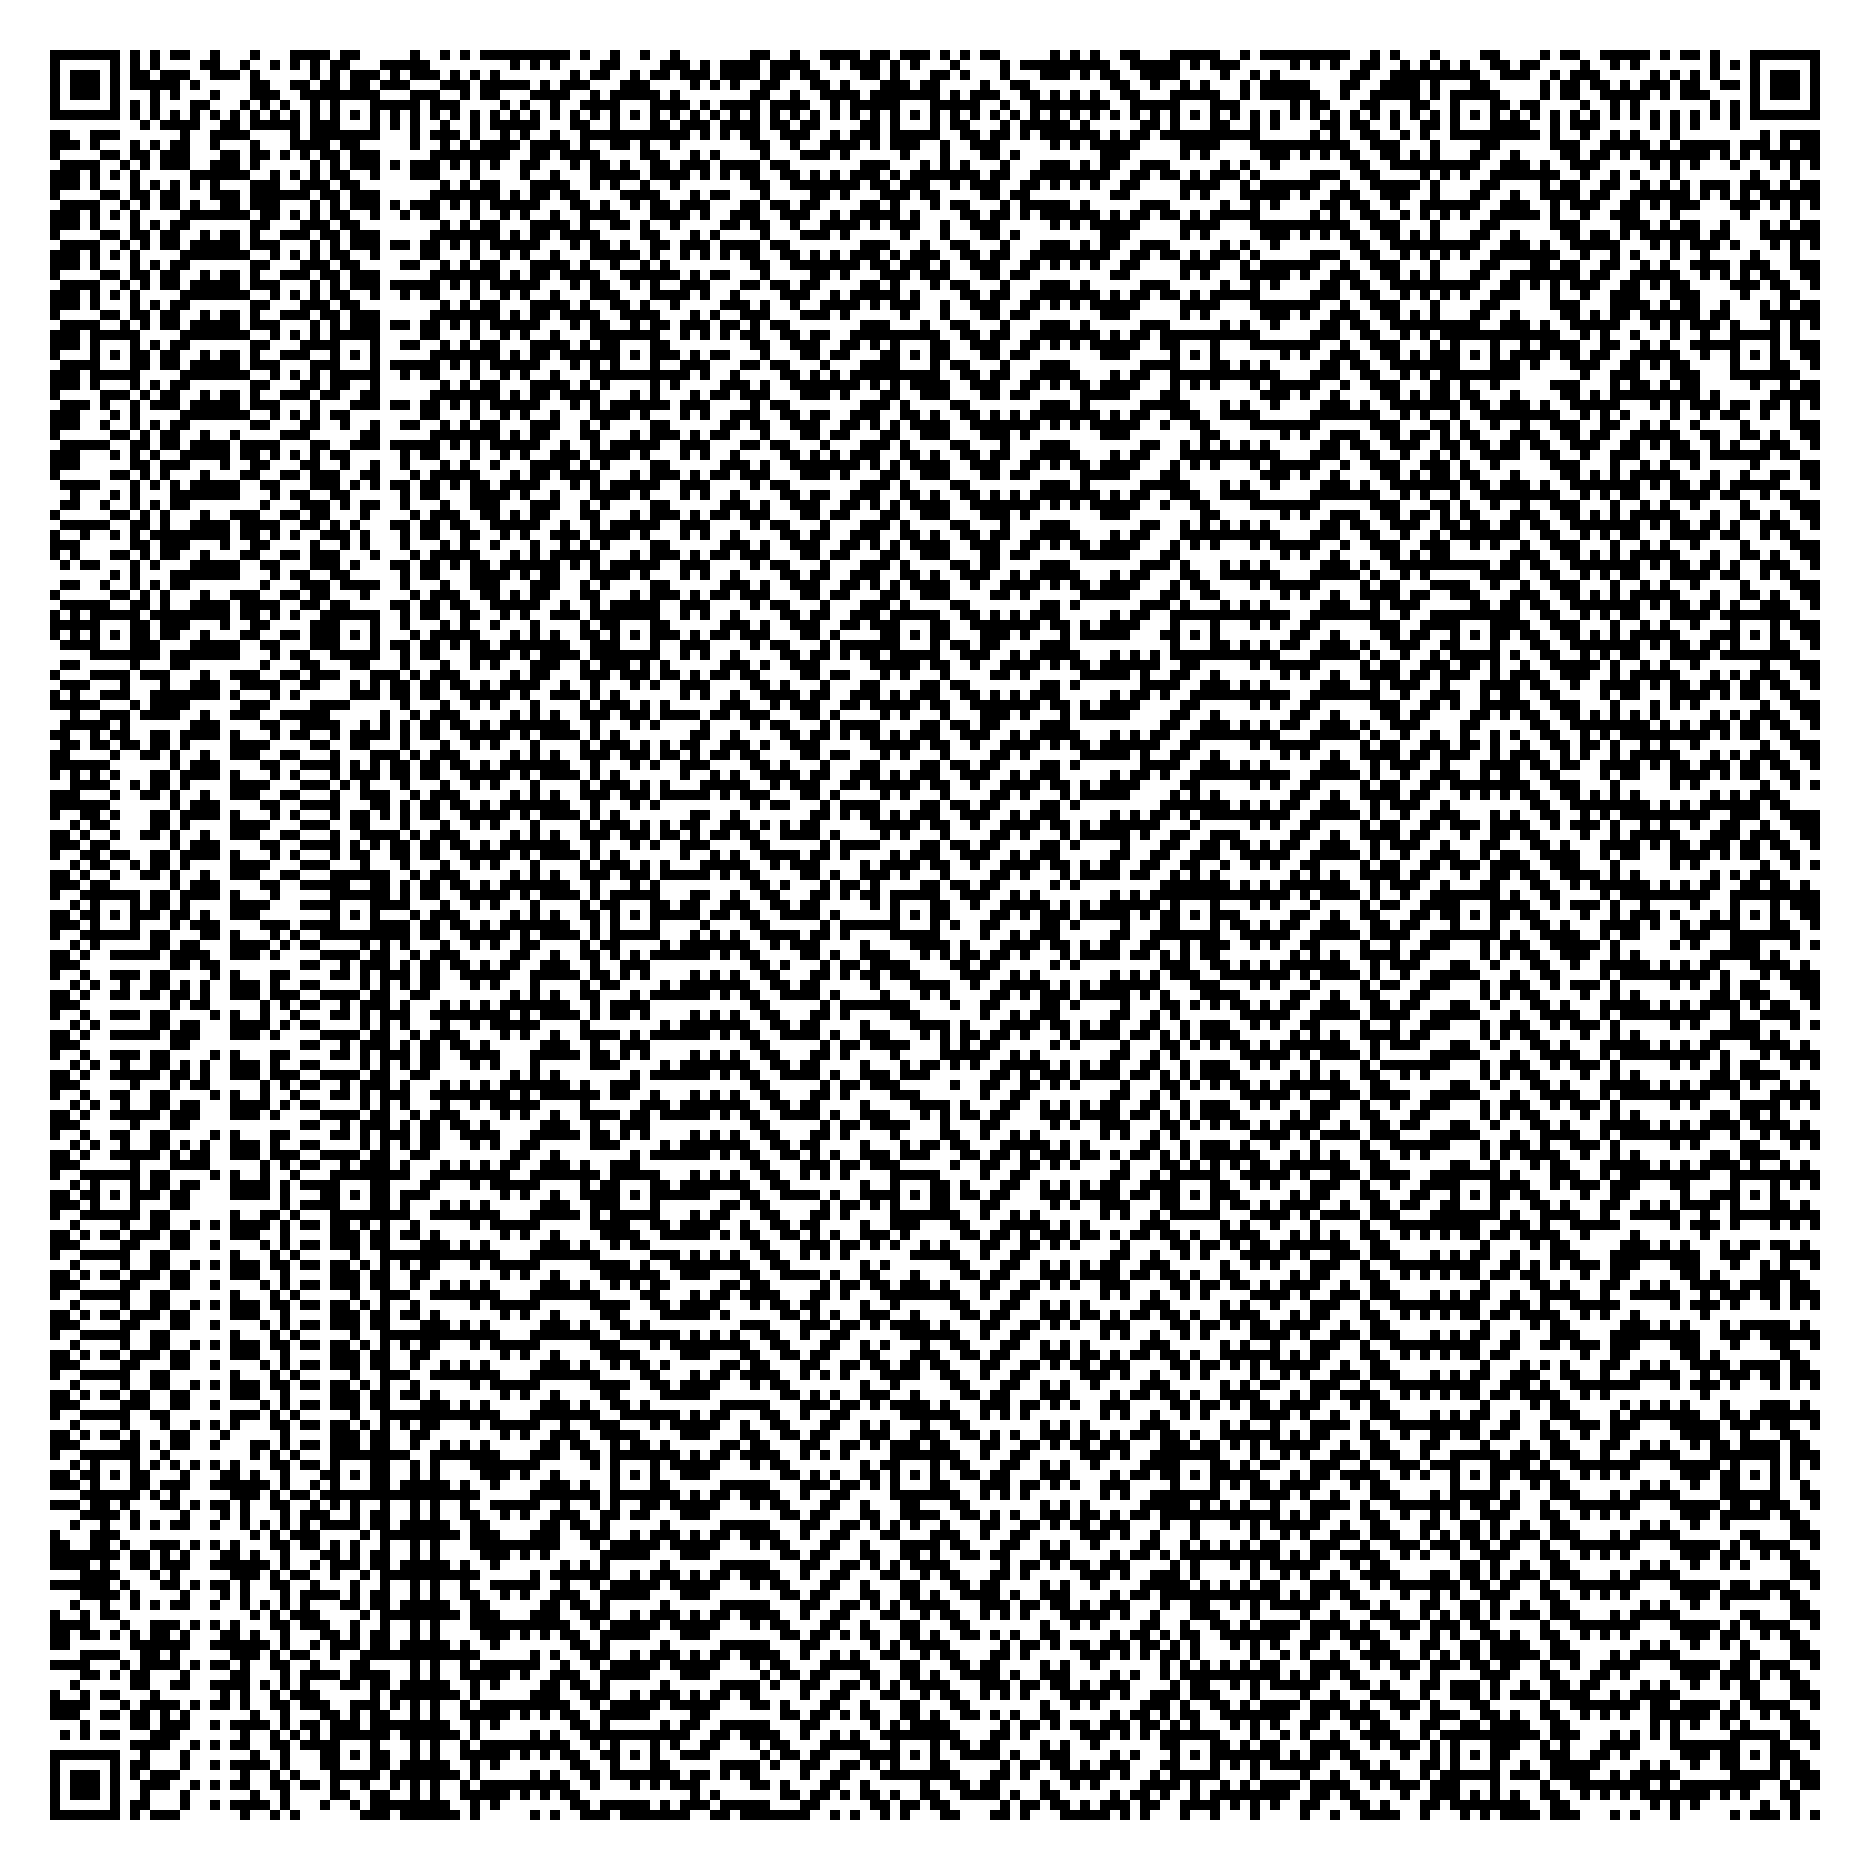
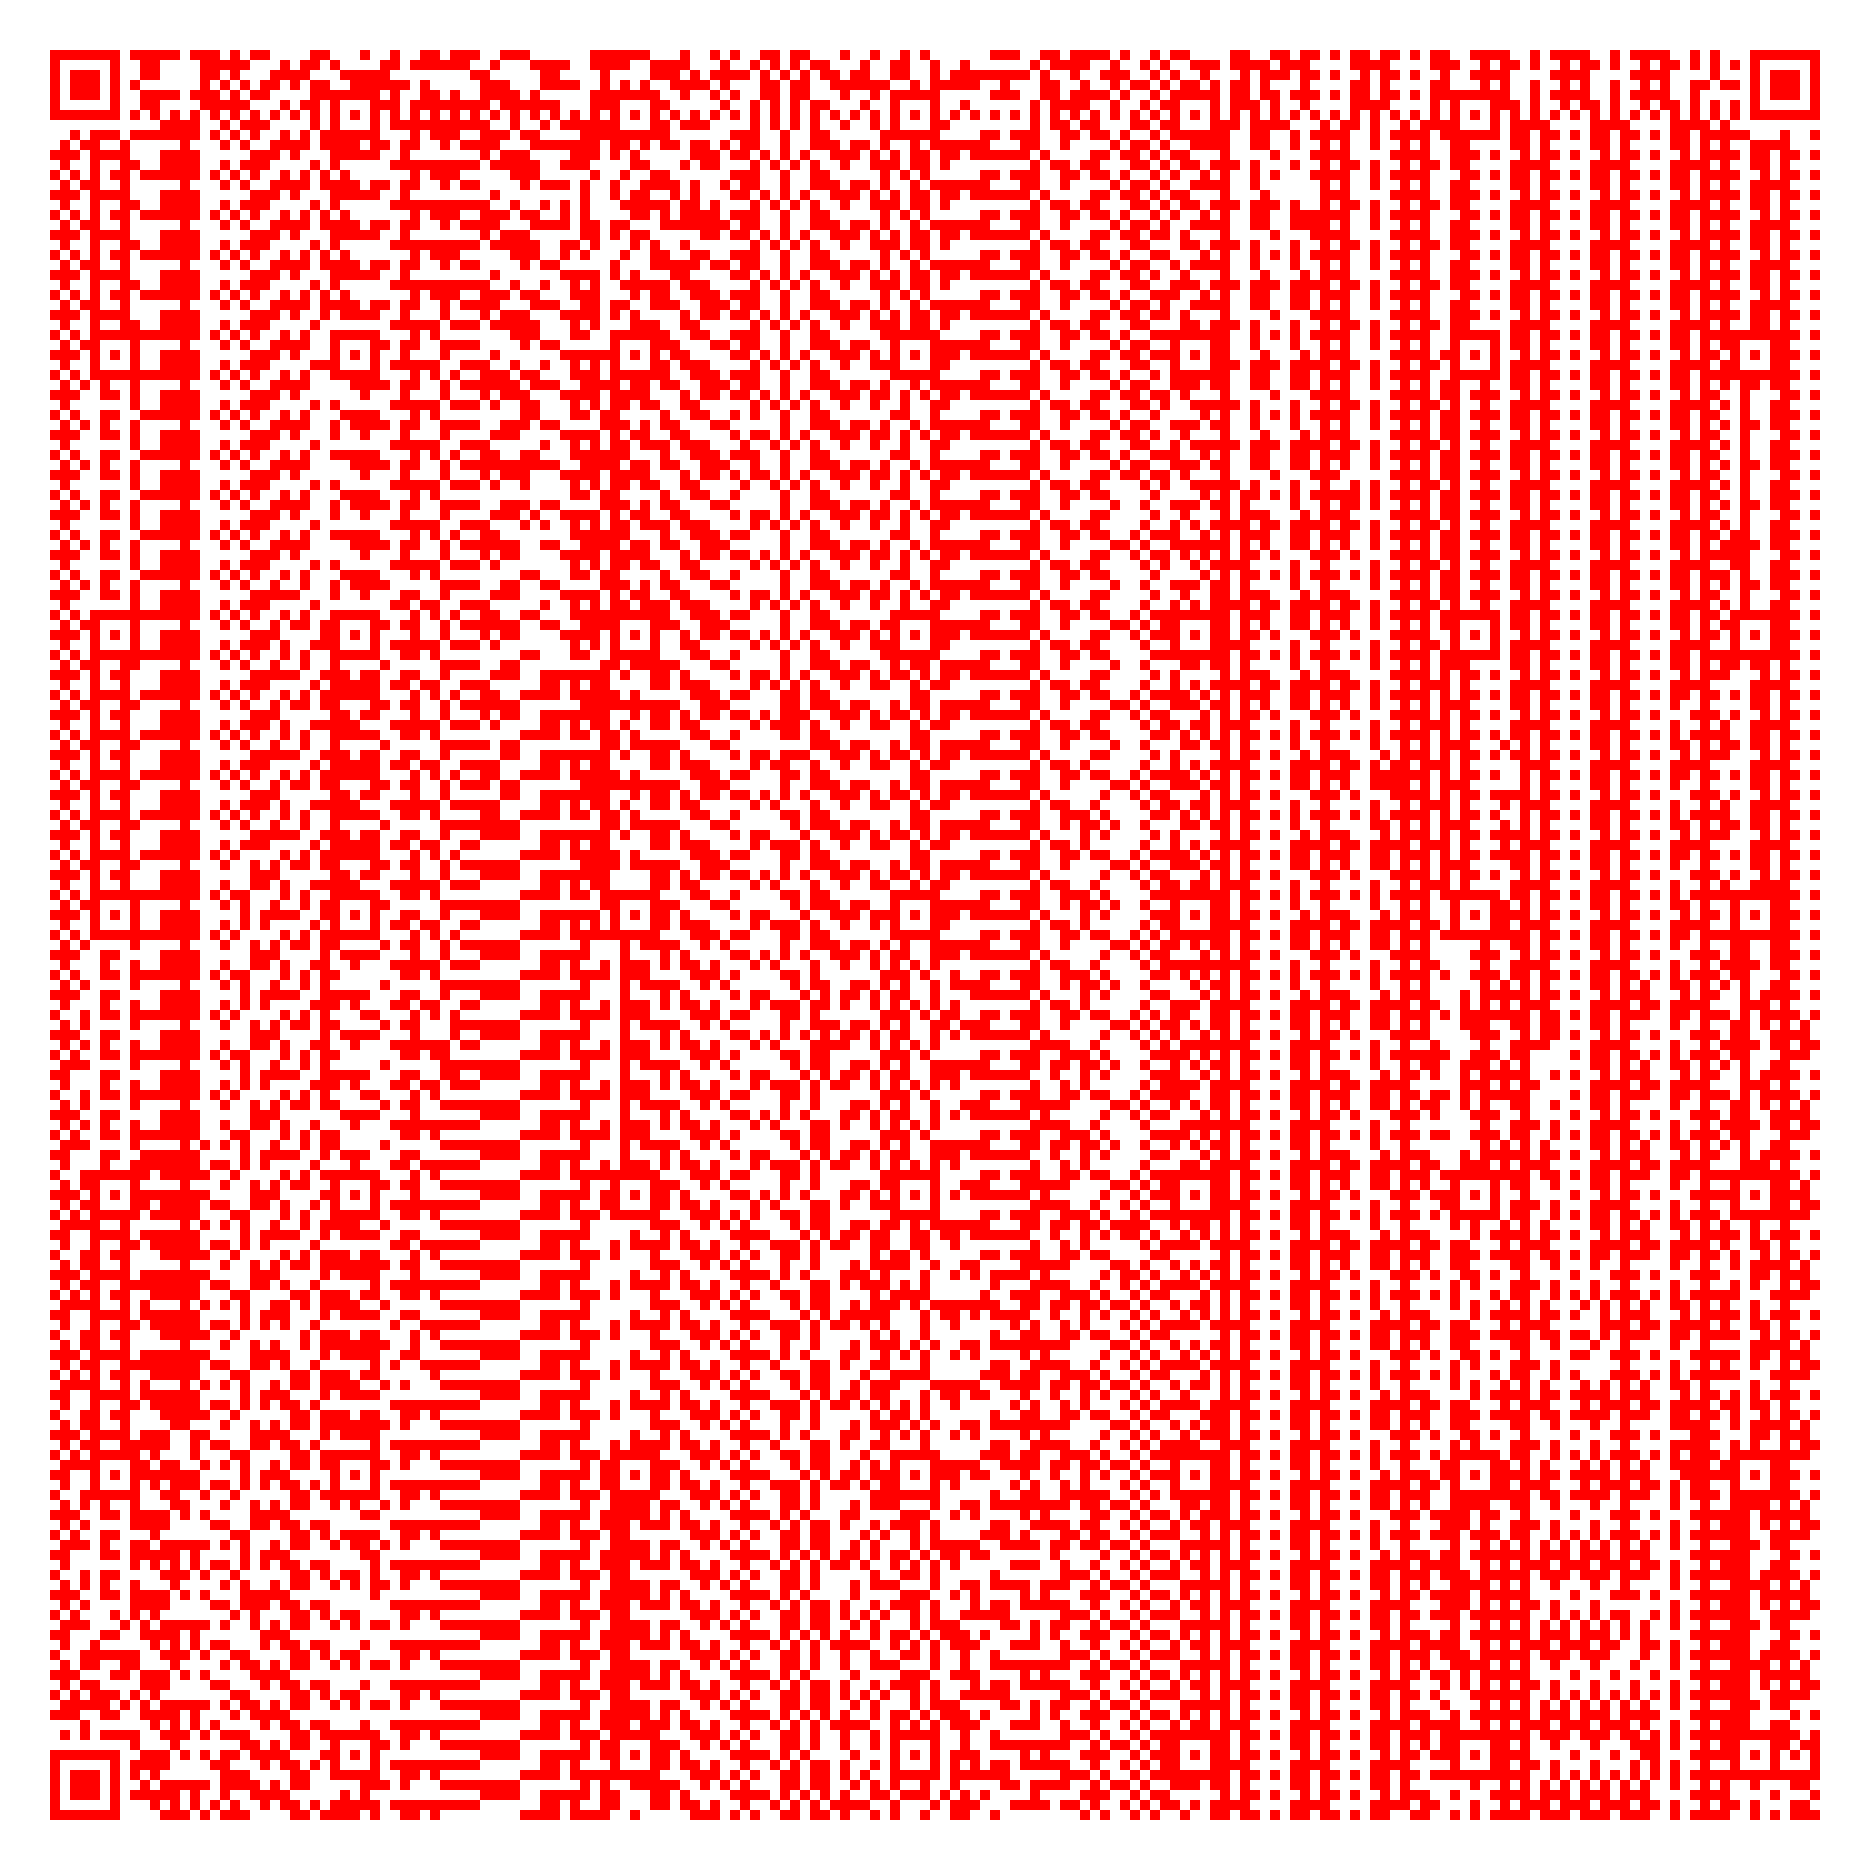
Updated like everything :)

diff --git a/QR_creation.py b/QR_creation.py
@@ -1,12 +1,13 @@
+from QR_decoding import QR_decode
 import qrcode
 
 #function takes in text to encode and file_name to save the encoding to
 #it uses inputted version defaulting to 1 and inputted fill color defaulting to black
-def create_QR(text, file_name, qr_version=1, qr_color="black"):
+def QR_create(text, file_name, qr_version=1, qr_color="black"):
     #Create the QR Code object
     qr = qrcode.QRCode(
         version = qr_version,
-        error_correction = qrcode.constants.ERROR_CORRECT_L, #Levels: L, M, Q, H
+        error_correction = qrcode.constants.ERROR_CORRECT_H, #Levels: L, M, Q, H
         box_size = 10,
         border=5
     )
@@ -29,6 +30,6 @@ if __name__ == "__main__":
     qr2_file = "qr2.png"
 
     #Creation of both QR codes
-    qr1 = create_QR(qr1_text, qr1_file, 1, "black")
-    qr2 = create_QR(qr2_text, qr2_file, 40, "red")
+    qr1 = QR_create(qr1_text, qr1_file, 1, "black")
+    qr2 = QR_create(qr2_text, qr2_file, 40, "red") #unreadable at 20 or more 
     

diff --git a/Barcode_decoder.py b/Barcode_decoder.py
@@ -1,9 +1,15 @@
 from pyzbar.pyzbar import decode
 from PIL import Image
 
-img = Image.open('barcode.png') #open up the image to be decoded
-result = decode(img) #decode and store a list of pieces of decoded data
-print(result)
+def barcode_decode(barcode_file):
+    img = Image.open(barcode_file) #open up the image to be decoded
+    result = decode(img) #decode and store a list of pieces of decoded data
 
-for i in result: #print out the results of the decoding in utf-8
-    print(i.data.decode("utf-8"))
+    for i in result: #print out the results of the decoding in utf-8
+        print(i.data.decode("utf-8"))
+
+if __name__ == "__main__":
+    barcode_file = 'barcode.png'
+    
+    barcode_decode(barcode_file)
+

diff --git a/Barcode_creation.py b/Barcode_creation.py
@@ -1,7 +1,7 @@
 from barcode import EAN13 # a type of format
 from barcode.writer import ImageWriter #to save the barcode as a png file
 
-def create_barcode(file_name, digits):
+def barcode_create(file_name, digits):
     with open(file_name, 'wb') as f: #write in binary mode
         #numbers written in barcode where the last one is automatically generated
         EAN13(digits, writer=ImageWriter()).write(f) 
@@ -9,4 +9,5 @@ def create_barcode(file_name, digits):
 if __name__ == "__main__":
     file_name = "barcode.png"
     digits = "11111111111111"
-    create_barcode(file_name, digits)
+    
+    barcode_create(file_name, digits)

diff --git a/QR_decoding.py b/QR_decoding.py
@@ -1,0 +1,17 @@
+from pyzbar.pyzbar import decode
+from PIL import Image
+
+def QR_decode(barcode_file):
+    img = Image.open(barcode_file) #open up the image to be decoded
+    result = decode(img) #decode and store a list of pieces of decoded data
+
+    for i in result: #print out the results of the decoding in utf-8
+        print(i.data.decode("utf-8"))
+
+if __name__ == "__main__":
+    qr_file1 = 'qr1.png'
+    qr_file2 = 'qr2.png'
+
+    QR_decode(qr_file1)
+    QR_decode(qr_file2)
+
